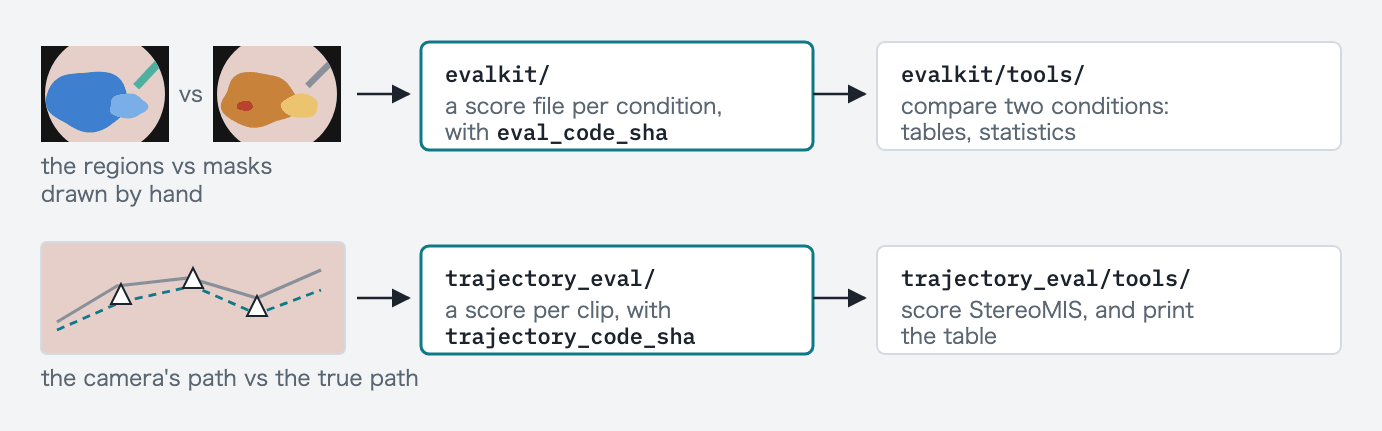
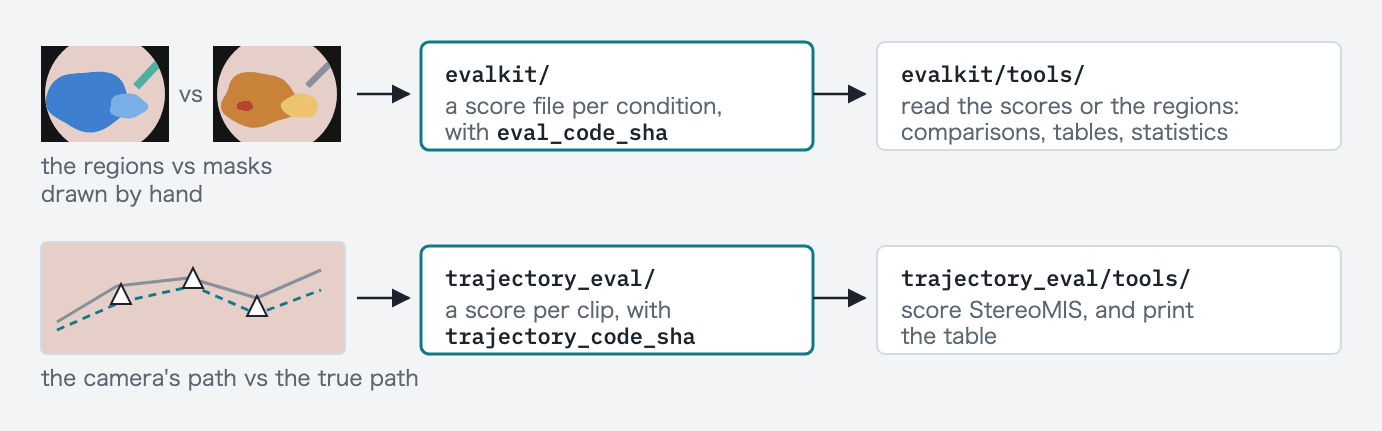
README, pipeline.md: say clip for the input, cite a section by its title
- README: the input is a clip, a stretch of one video, as the Terms of
  docs/evaluation.md define it; the heading says clip as the figure does.
- README: cite the trajectory section by its title, not as "the last
  section"; give "Show and explain" a line on viewer/README.md.
- folders_score.png: evalkit/tools read the scores or the regions, as the
  table says, rather than only comparing two conditions.
- pipeline.md: the first row names the re-encoding and says it is needed
  only where OpenCV cannot decode an ATLAS-120k video.

Changed region(s): [[0.6534, 0.2111, 0.9023, 0.3318]]

diff --git a/README.md b/README.md
@@ -1,14 +1,15 @@
 # omnisurg-4d-scene-graph
 
-This repository turns a video of minimally invasive surgery into a **4D**
-(3D + time) scene graph. The pipeline cuts each frame into regions, places
-them in 3D and follows them through time. A frame's scene graph lists its
-regions and says where each lies from the others: right, above, in front,
-and so on. No model is trained; the pipeline combines existing ones.
+This repository turns a clip, a stretch of a video of minimally invasive
+surgery, into a **4D** (3D + time) scene graph. The pipeline cuts each
+frame into regions, places them in 3D and follows them through time. A
+frame's scene graph lists its regions and says where each lies from the
+others: right, above, in front, and so on. No model is trained; the
+pipeline combines existing ones.
 
 ## Contents
 
-- [From a video to a scene graph](#from-a-video-to-a-scene-graph): the
+- [From a clip to a scene graph](#from-a-clip-to-a-scene-graph): the
   steps in one figure, and what is scored
 - [Where to start](#where-to-start): which page to read for what
 - [What is where](#what-is-where): the folders, by what they do
@@ -16,7 +17,7 @@ and so on. No model is trained; the pipeline combines existing ones.
 - [Status](#status): what has been moved here so far
 - [License](#license)
 
-## From a video to a scene graph
+## From a clip to a scene graph
 
 ![From a clip to a 4D scene graph, on a drawn scene: 1, the clip's frames; 2, a depth map and a point cloud per frame, and the camera's path; 3, regions that keep their ids from frame to frame and have no names; 4, a scene graph per frame, a node per region and a word per pair such as right, front or above; 5, the same relations through time, each holding for a run of frames, and the viewer that shows them. Below, what is scored: the camera poses against StereoMIS's ground truth by trajectory_eval, and the regions against the hand-labelled GT masks by evalkit.](docs/figures/scene_graph_overview.png)
 
@@ -56,10 +57,10 @@ results, not the scene graphs:
 
 ### Score the results
 
-![evalkit compares the regions with masks drawn by hand and writes a score file with eval_code_sha, which evalkit/tools compare; trajectory_eval compares the camera's path with the true path and writes a score with trajectory_code_sha, which its tools turn into the StereoMIS table](docs/figures/folders_score.png)
+![evalkit compares the regions with masks drawn by hand and writes a score file with eval_code_sha, which evalkit/tools read; trajectory_eval compares the camera's path with the true path and writes a score with trajectory_code_sha, which its tools turn into the StereoMIS table](docs/figures/folders_score.png)
 
-[`evalkit/README.md`](evalkit/README.md) says how the regions are scored;
-[the last section of `docs/pipeline.md`](docs/pipeline.md#the-stereomis-camera-trajectory-scores)
+[`evalkit/README.md`](evalkit/README.md) says how the regions are scored.
+[`docs/pipeline.md`, "The StereoMIS camera trajectory scores"](docs/pipeline.md#the-stereomis-camera-trajectory-scores)
 says how the camera's path is scored.
 
 | folder | what it holds |
@@ -88,6 +89,9 @@ itself: no video, frame or point cloud.
 ### Show and explain
 
 ![The viewer, a web page that steps through a clip's clouds, regions and scene graphs; and docs, with evaluation.md, pipeline.md and review.md](docs/figures/folders_show.png)
+
+[`viewer/README.md`](viewer/README.md) says how to run the page and
+publish it.
 
 | folder | what it holds |
 |---|---|

diff --git a/docs/pipeline.md b/docs/pipeline.md
@@ -16,7 +16,7 @@ a clip holds.
 
 | step | stage | runs as | writes |
 |---|---|---|---|
-| 1 · extract the clips | [an ATLAS-120k video OpenCV cannot decode](#a-video-opencv-cannot-decode) | `pipeline.prepare_atlas120k_videos` | `--dst`: a second root for `--atlas-root`, with `video_root.json` |
+| 1 · extract the clips | [re-encoding for OpenCV](#a-video-opencv-cannot-decode), only where OpenCV cannot decode an ATLAS-120k video | `pipeline.prepare_atlas120k_videos` | `--dst`: a second root for `--atlas-root`, with `video_root.json` |
 | | [ATLAS-120k](#the-atlas-120k-extraction-stage) | `pipeline.extract_atlas120k` | `input_images/`, `seg_masks/`, `frame_manifest.json` |
 | | [CholecSeg8k](#the-cholecseg8k-extraction-stage) | `pipeline.extract_cholecseg8k` | the same |
 | | [CholecSeg8k's crop](#the-cholecseg8k-crop-stage) | `pipeline.crop_cholecseg8k` | a cropped copy, `<clip>_crop/`, with `crop_info.json` |
